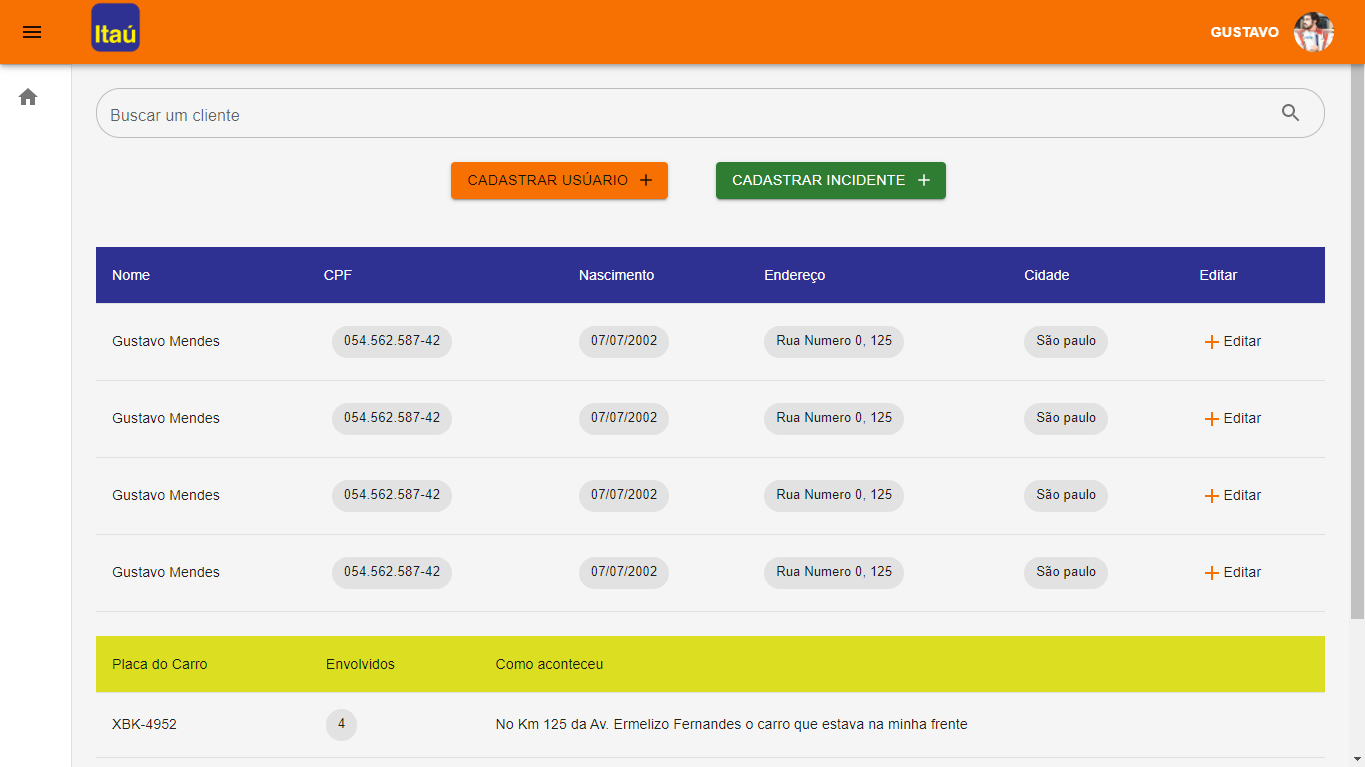
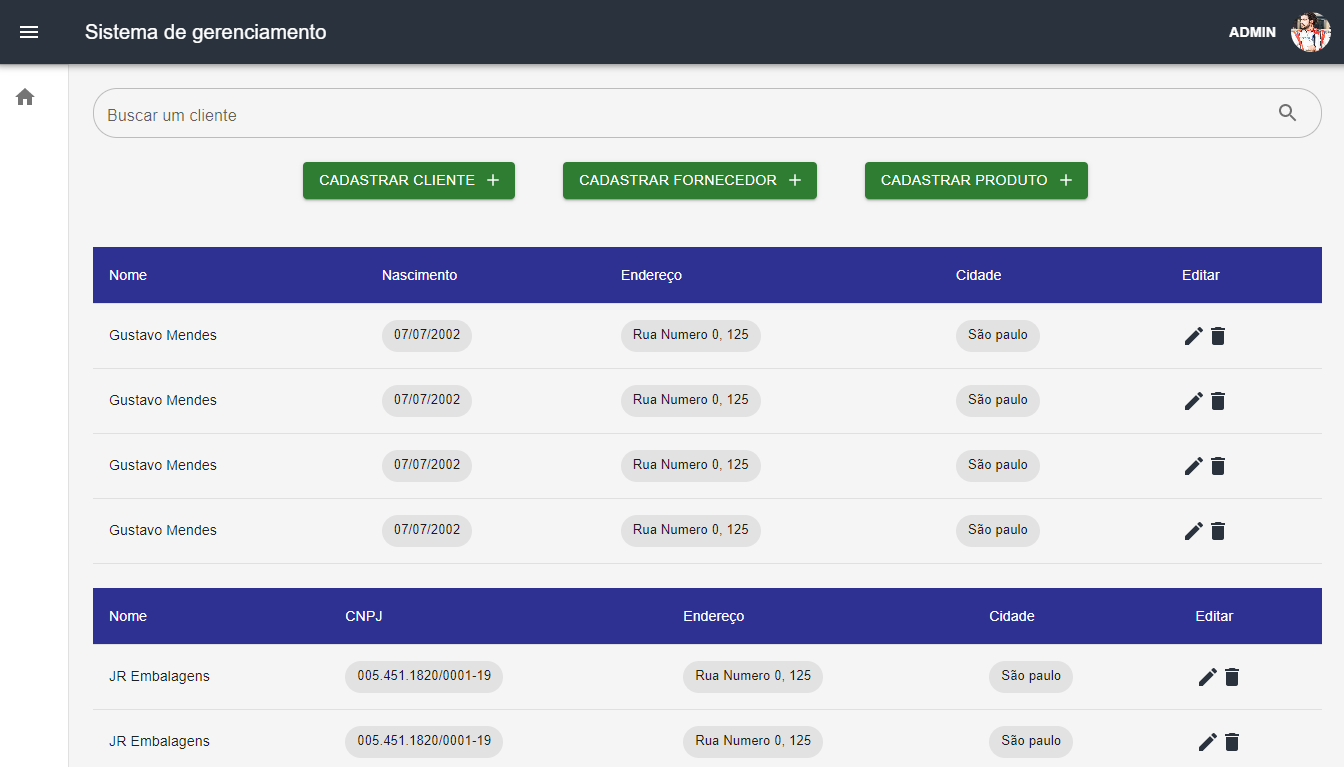
:tada: Ajustando Readme

diff --git a/README.md b/README.md
@@ -3,26 +3,41 @@
 </h1>
 
 <p align="center">
-  Accident 🚀
+  Sistema de  Gerenciamento  🚀
   <br>
   <br>
 
 </p>
 
+To Do List 🌞
+
+Front-end ->
+[ ] Fazer integração com o Backend
+[ ] Ajustar campos dos modais de inserção com os campos que possui na listagem
+[ ] Ajustar campo de filtrar clientes
+[ ] Dar funcionalidades ao botão de edição
+[ ] Dar funcionalidades ao botão de excluão
+
+Banco de Dados ->
+[ ] Criar Mock de Clientes
+[ ] Criar Mock de Fornecedores
+[ ] Criar Mock de Produtos
+[ ] Criar modelagem para cada uma das 3 tabelas
+
 ## :checkered_flag: Começando
 
 ```bash
 # Clone this project
-$ git clone https://github.com/Gustavo-Developer/Frontend-Accidents
+$ git clone https://github.com/Gustavo-Developer/CrudImpacta
 
 # Access
-$ cd Frontend-Accidents
+$ cd CrudImpact
 
 # Install dependencies
 $ npm i
 
-# Install dependencies
-$ npm run
+# Start Aplication
+$ npm run start
 
 ```
 
@@ -30,4 +45,4 @@ $ npm run
 
 <h1 align="center">
     <img alt = "Web app" src = "./.github/home.png" width = "100%" />
-</h1># Accidents
+</h1># Sistema de gerenciamento
